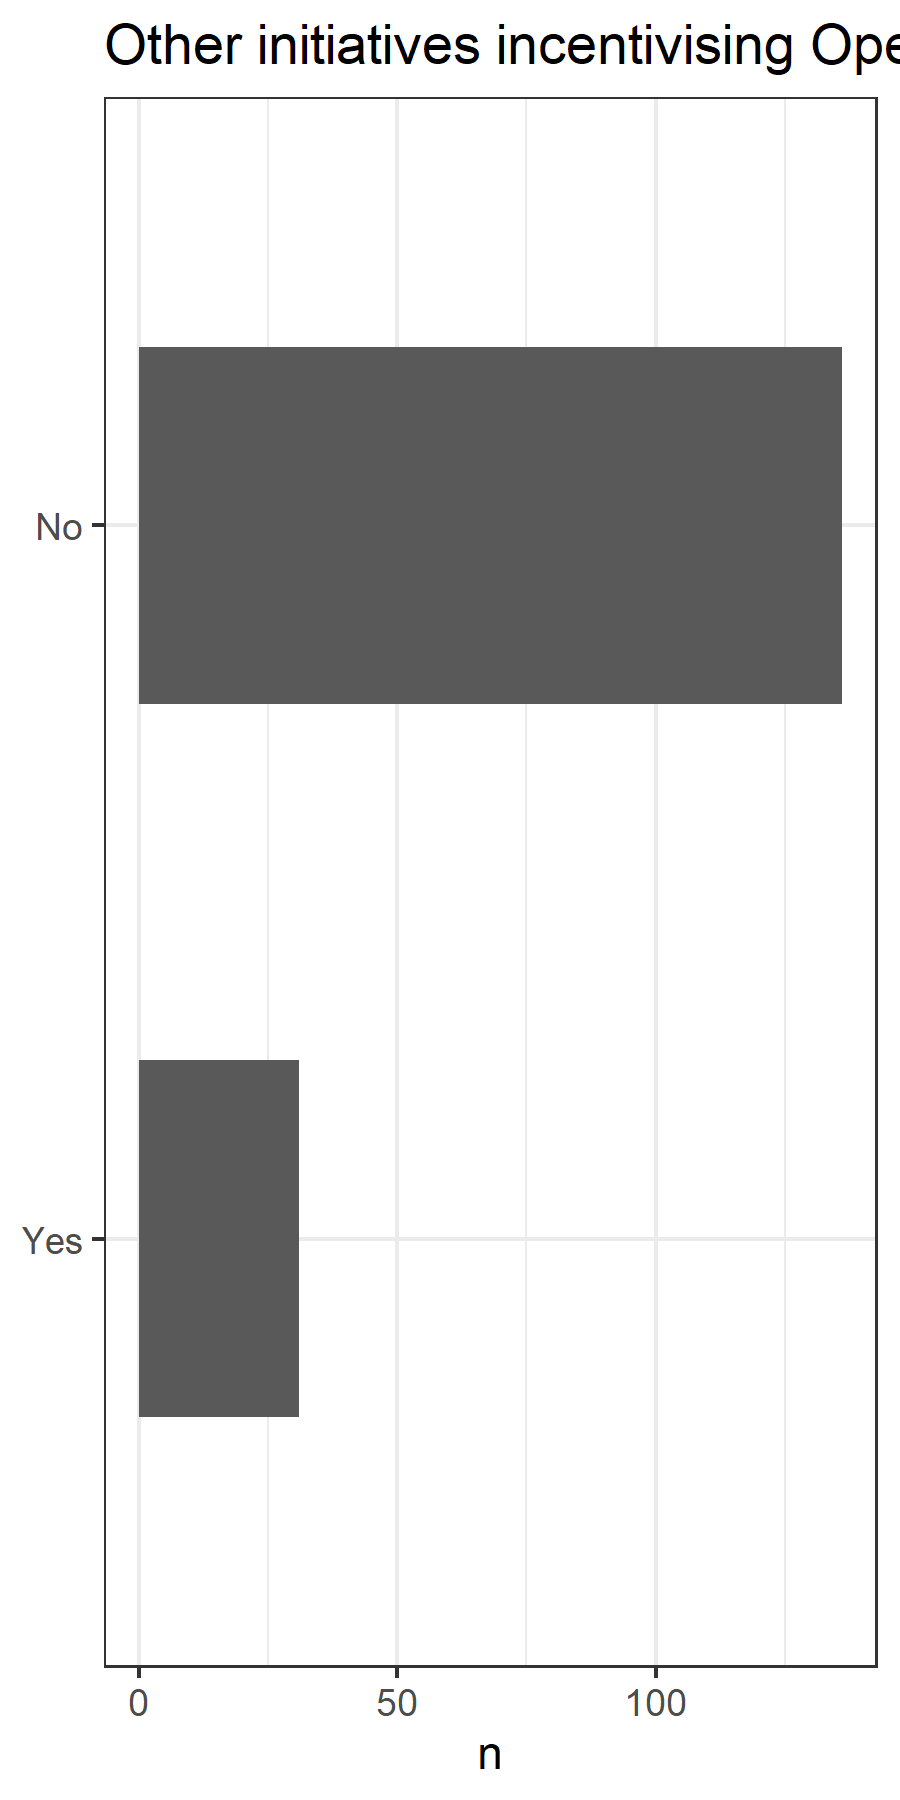
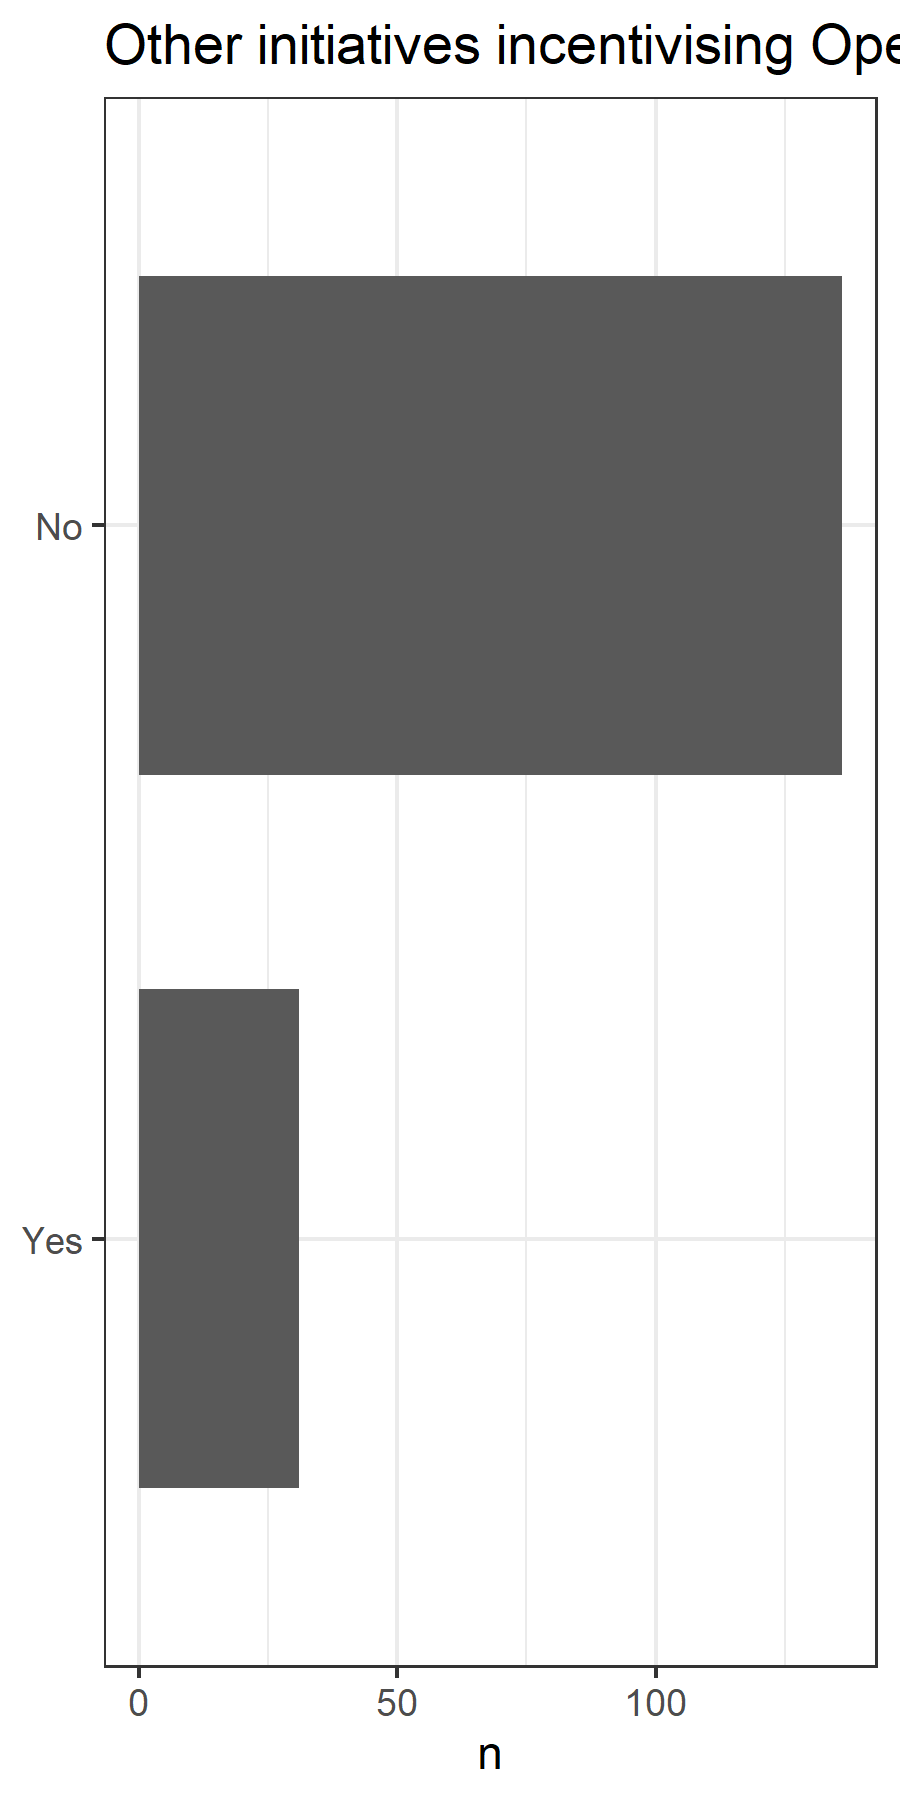
fix graphics and answer level 9

diff --git a/02_descriptives_parts_c_d.html b/02_descriptives_parts_c_d.html
@@ -310,10 +310,10 @@ c10_df %&gt;%
 <pre class="r"><code>c10_df_rec %&gt;% 
   count(C10) %&gt;% 
   ggplot(aes(fct_reorder(C10, n, .fun = &quot;max&quot;), n)) +
-  geom_col(width = .5) +
+  geom_col(width = .7) +
   coord_flip() +
   labs(x = NULL, title = &quot;Other initiatives incentivising Open Science practices at institution&quot;)</code></pre>
[2 lines of base64/hex data omitted]
 </div>
 <div id="part-d-drivers-and-barriers-to-practicing-open-science" class="section level1">
 <h1>Part D: Drivers and barriers to practicing Open Science</h1>
@@ -354,14 +354,14 @@ d3_df_rec %&gt;%
 </div>
 <div id="d5-main-drivers-to-participate-os" class="section level1">
 <h1>D5 Main drivers to participate OS</h1>
-<pre class="r"><code>answer_levels_8 &lt;- c(&quot;Don’t know/ Don’t have enough information&quot;, &quot;No driver&quot;, &quot;Minor driver&quot;,
+<pre class="r"><code>answer_levels_9 &lt;- c(&quot;Don’t know/ Don’t have enough information&quot;, &quot;No driver&quot;, &quot;Minor driver&quot;,
                      &quot;Significant driver&quot;, &quot;Very significant driver&quot;)
 
 d5_df &lt;- df %&gt;% 
   select(starts_with(&quot;D5[&quot;)) 
 
 d5_df_rec &lt;- d5_df %&gt;% 
-  mutate(across(.fns = factor, levels = answer_levels_8))
+  mutate(across(.fns = factor, levels = answer_levels_9))
 
 
 d5_df %&gt;% 

diff --git a/02_descriptives_parts_c_d.md b/02_descriptives_parts_c_d.md
@@ -201,7 +201,7 @@ c10_df %>%
 c10_df_rec %>% 
   count(C10) %>% 
   ggplot(aes(fct_reorder(C10, n, .fun = "max"), n)) +
-  geom_col(width = .5) +
+  geom_col(width = .7) +
   coord_flip() +
   labs(x = NULL, title = "Other initiatives incentivising Open Science practices at institution")
 ```
@@ -262,14 +262,14 @@ d3_df_rec %>%
 
 
 ```r
-answer_levels_8 <- c("Don’t know/ Don’t have enough information", "No driver", "Minor driver",
+answer_levels_9 <- c("Don’t know/ Don’t have enough information", "No driver", "Minor driver",
                      "Significant driver", "Very significant driver")
 
 d5_df <- df %>% 
   select(starts_with("D5[")) 
 
 d5_df_rec <- d5_df %>% 
-  mutate(across(.fns = factor, levels = answer_levels_8))
+  mutate(across(.fns = factor, levels = answer_levels_9))
 
 
 d5_df %>% 
